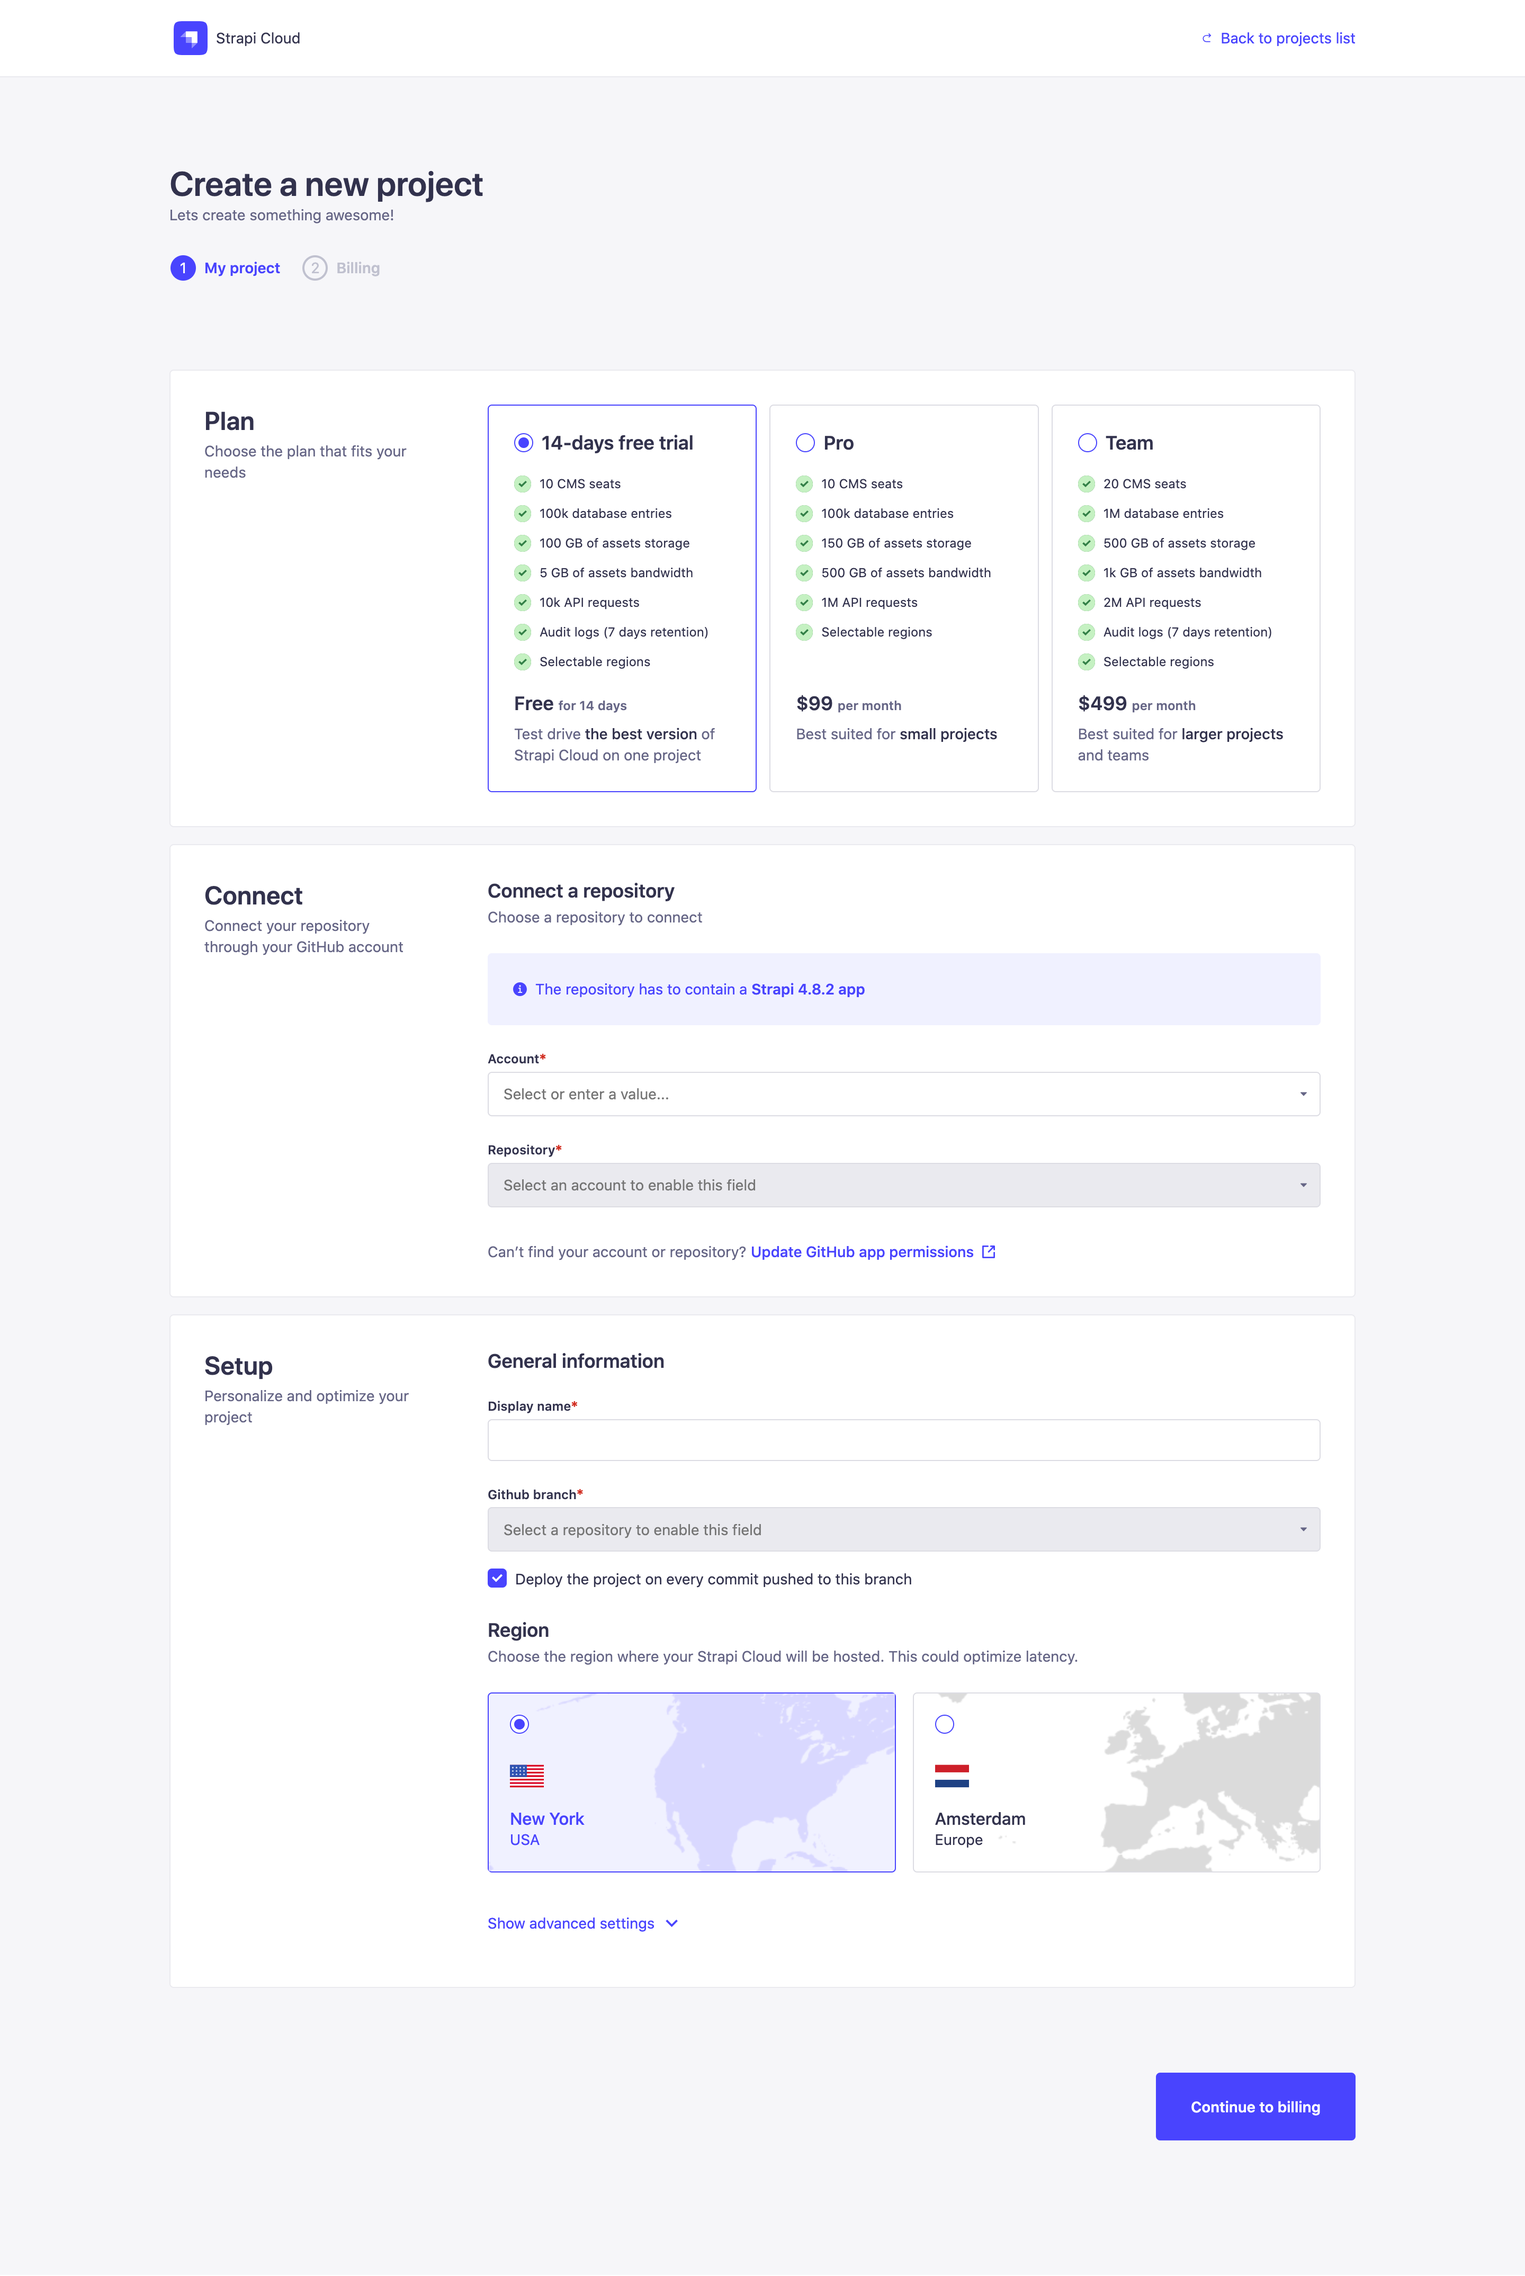
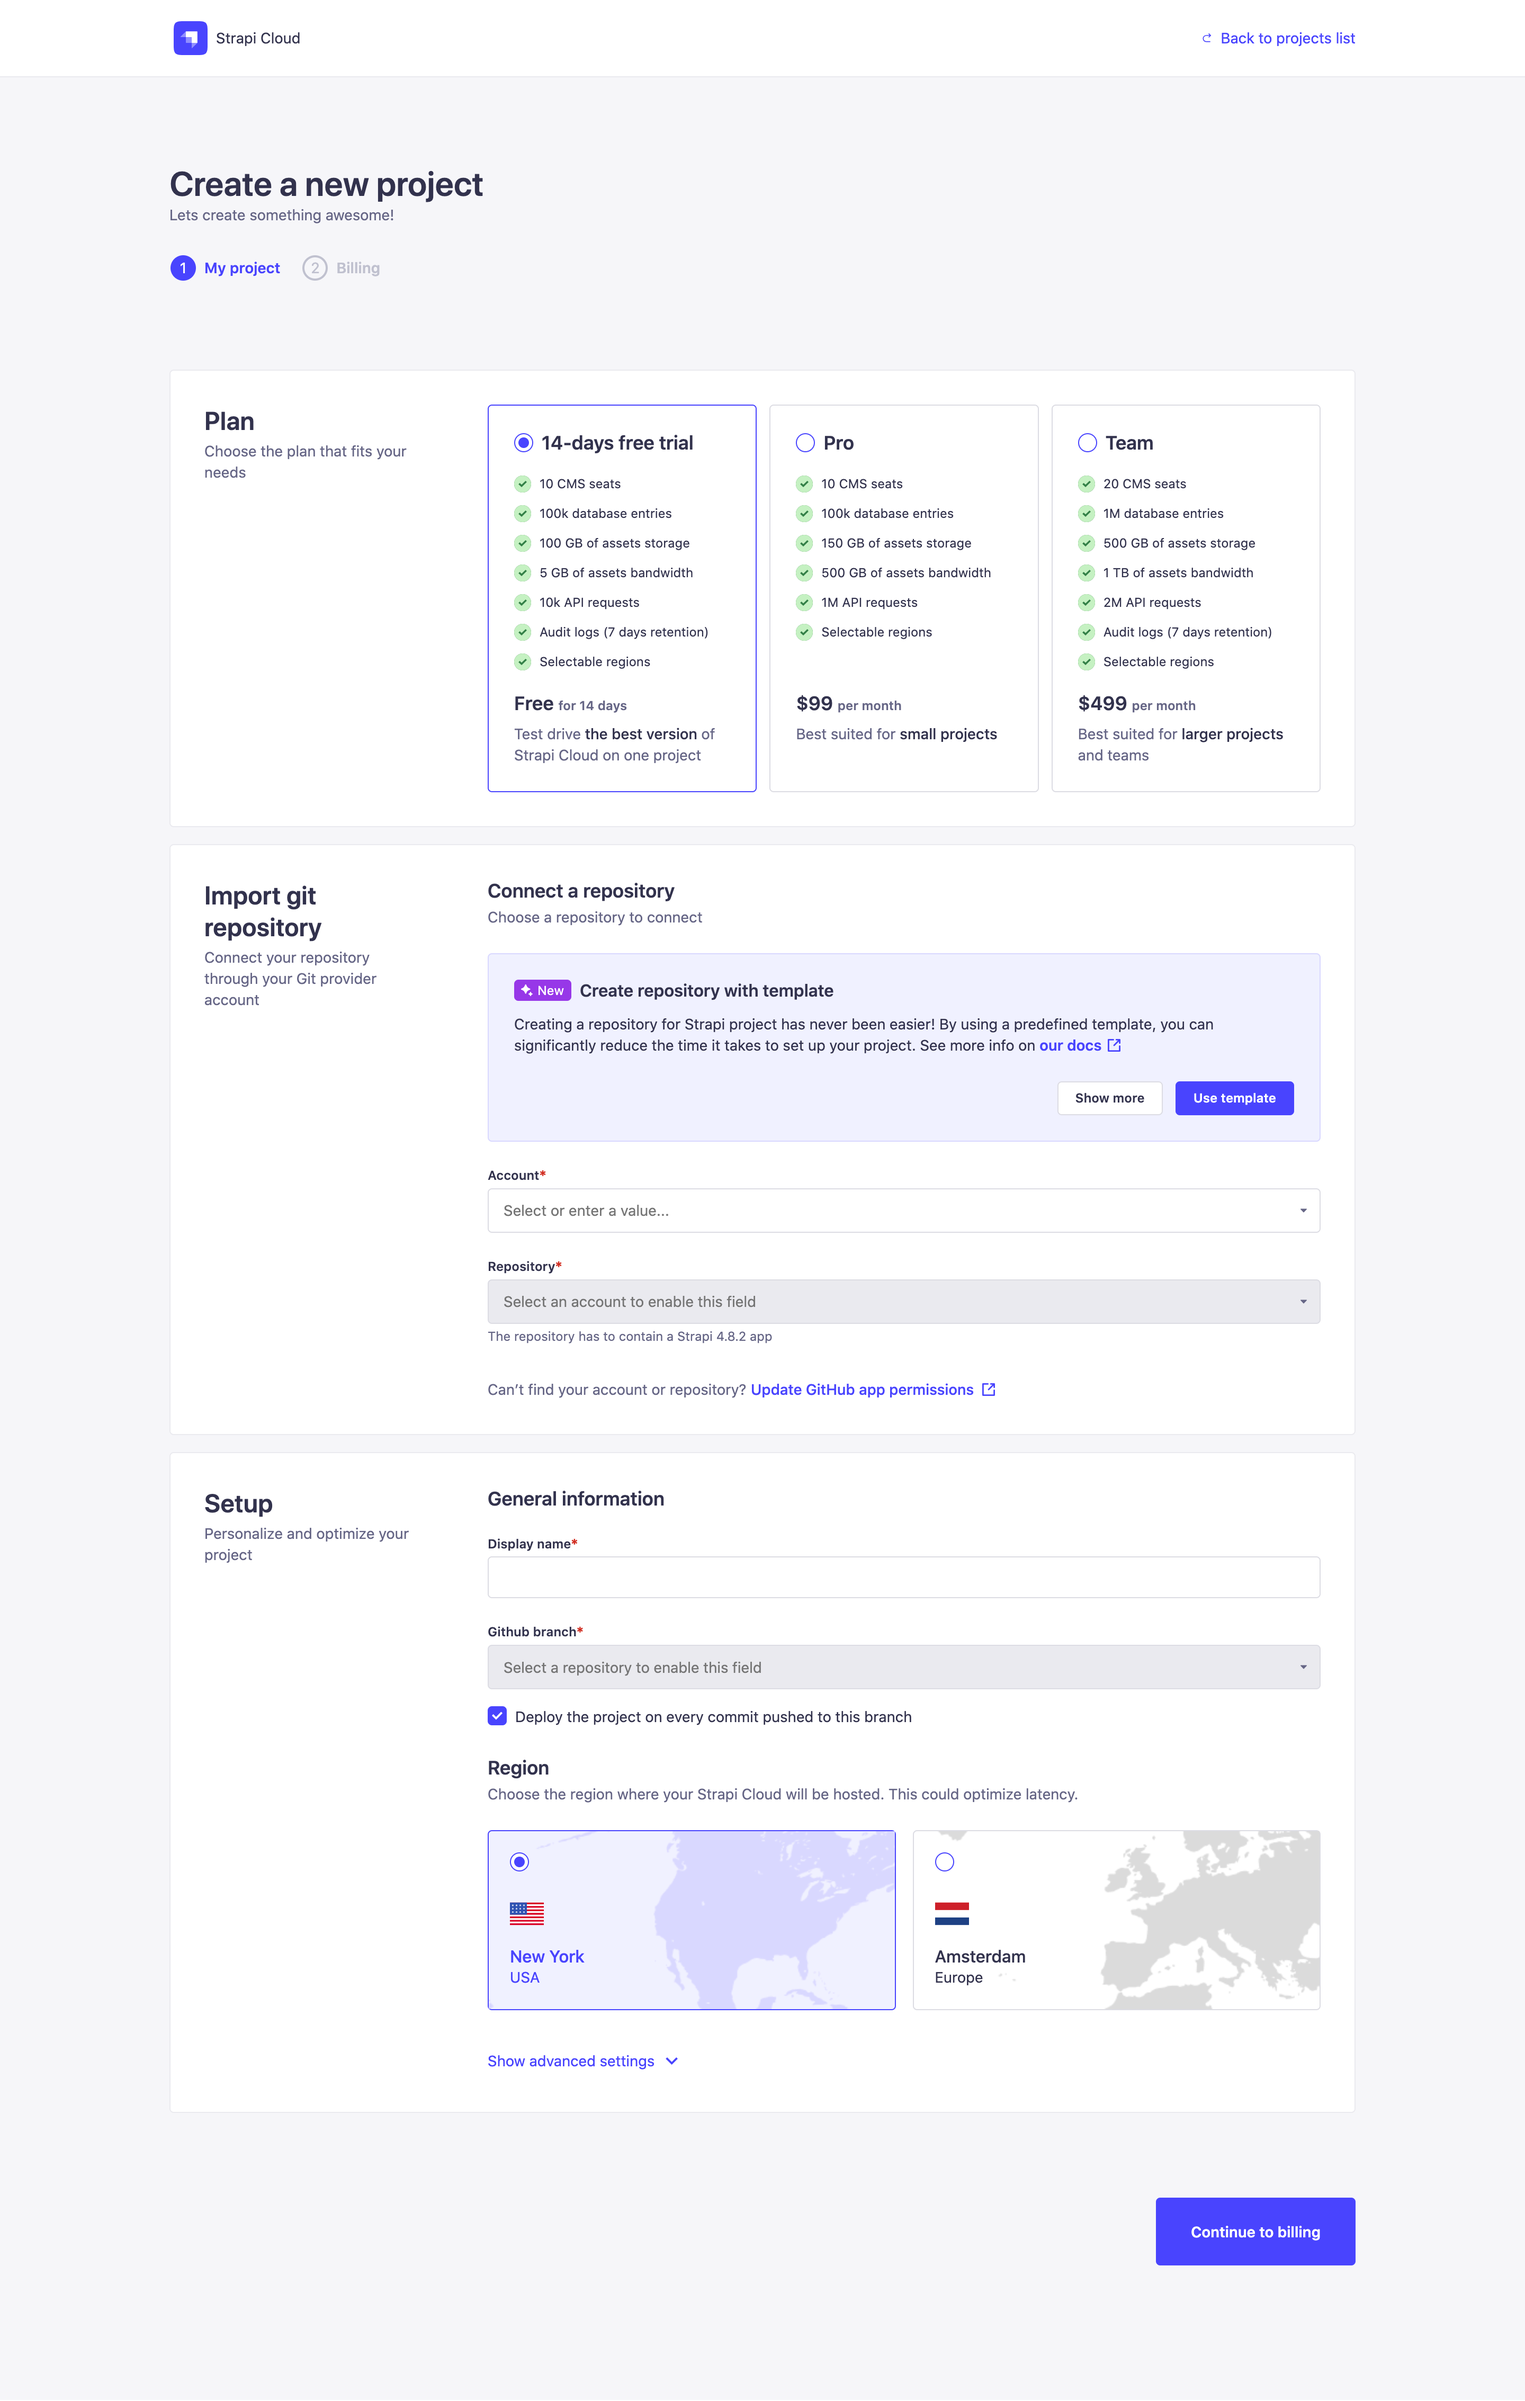
Update content and screenshots

diff --git a/docusaurus/docs/cloud/getting-started/deployment.md b/docusaurus/docs/cloud/getting-started/deployment.md
@@ -79,10 +79,19 @@ Before you can deploy your Strapi application on Strapi Cloud, you need to have 
     
     - the GitHub account where the repository will be created
     - the template to use for the new project (e.g. Blog)
-    
-    4.c. Click on the **Create repository** button. A modal will confirm the creation of the repository and redirect you to GitHub.
 
-    4.d. From the settings page of the GitHub account you chose earlier for the creation of the repository, allow access for Strapi Cloud to this new repository (more information in the GitHub documentation).
+    <ThemedImage
+    alt="Create repo with template modal"
+    width="60%"
+    sources={{
+        light: '/img/assets/cloud/template-modal.png',
+        dark: '/img/assets/cloud/template-modal_DARK.png',
+    }}
+    />
+    
+    4.c. Click on the **Create repository** button. A modal will confirm the creation of the repository.
+
+    4.d. If you have already given Strapi Cloud access to all repositories of your GitHub account, go directly to the next step. If not, you will be redirected to a GitHub modal where you will have to allow Strapi Cloud access to the newly created repository (more information in the [GitHub documentation](https://docs.github.com/en/apps/overview)).
 
     4.e. Back in the project creation interface, select your *Account* and the *Repository* you just created.
 
@@ -98,13 +107,15 @@ Before you can deploy your Strapi application on Strapi Cloud, you need to have 
 
     <TabItem value="OWN-REPO" label="Own existing repo & Strapi project">
 
-    4.a. Click on the **Connect GitHub repositories** button. You will be redirected to a GitHub modal to authorize Strapi Cloud to access your repository.
+    4.a. Click on the **Connect GitHub repositories** button.
 
     :::tip
     Connect the GitHub account and/or organizations that own the repository or repositories you want to deploy. This can be different from the account that owns the Strapi Cloud account.
     :::
 
-    4.b. Once Strapi Cloud is allowed permission to access the GitHub repositories (more information in the GitHub documentation), go back to the Strapi Cloud project creation interface to select an *Account* and *Repository*. 
+    4.b. If you have already given Strapi Cloud access to all repositories of your GitHub account, go directly to the next step. If not, you will be redirected to a GitHub modal where you will have to allow Strapi Cloud permission to access your repositories (more information in the [GitHub documentation](https://docs.github.com/en/apps/overview)).
+
+    4.c. Back in the project creation interface, select your *Account* and a *Repository*. 
 
     <ThemedImage
     alt="Selecting GitHub account and repository"
